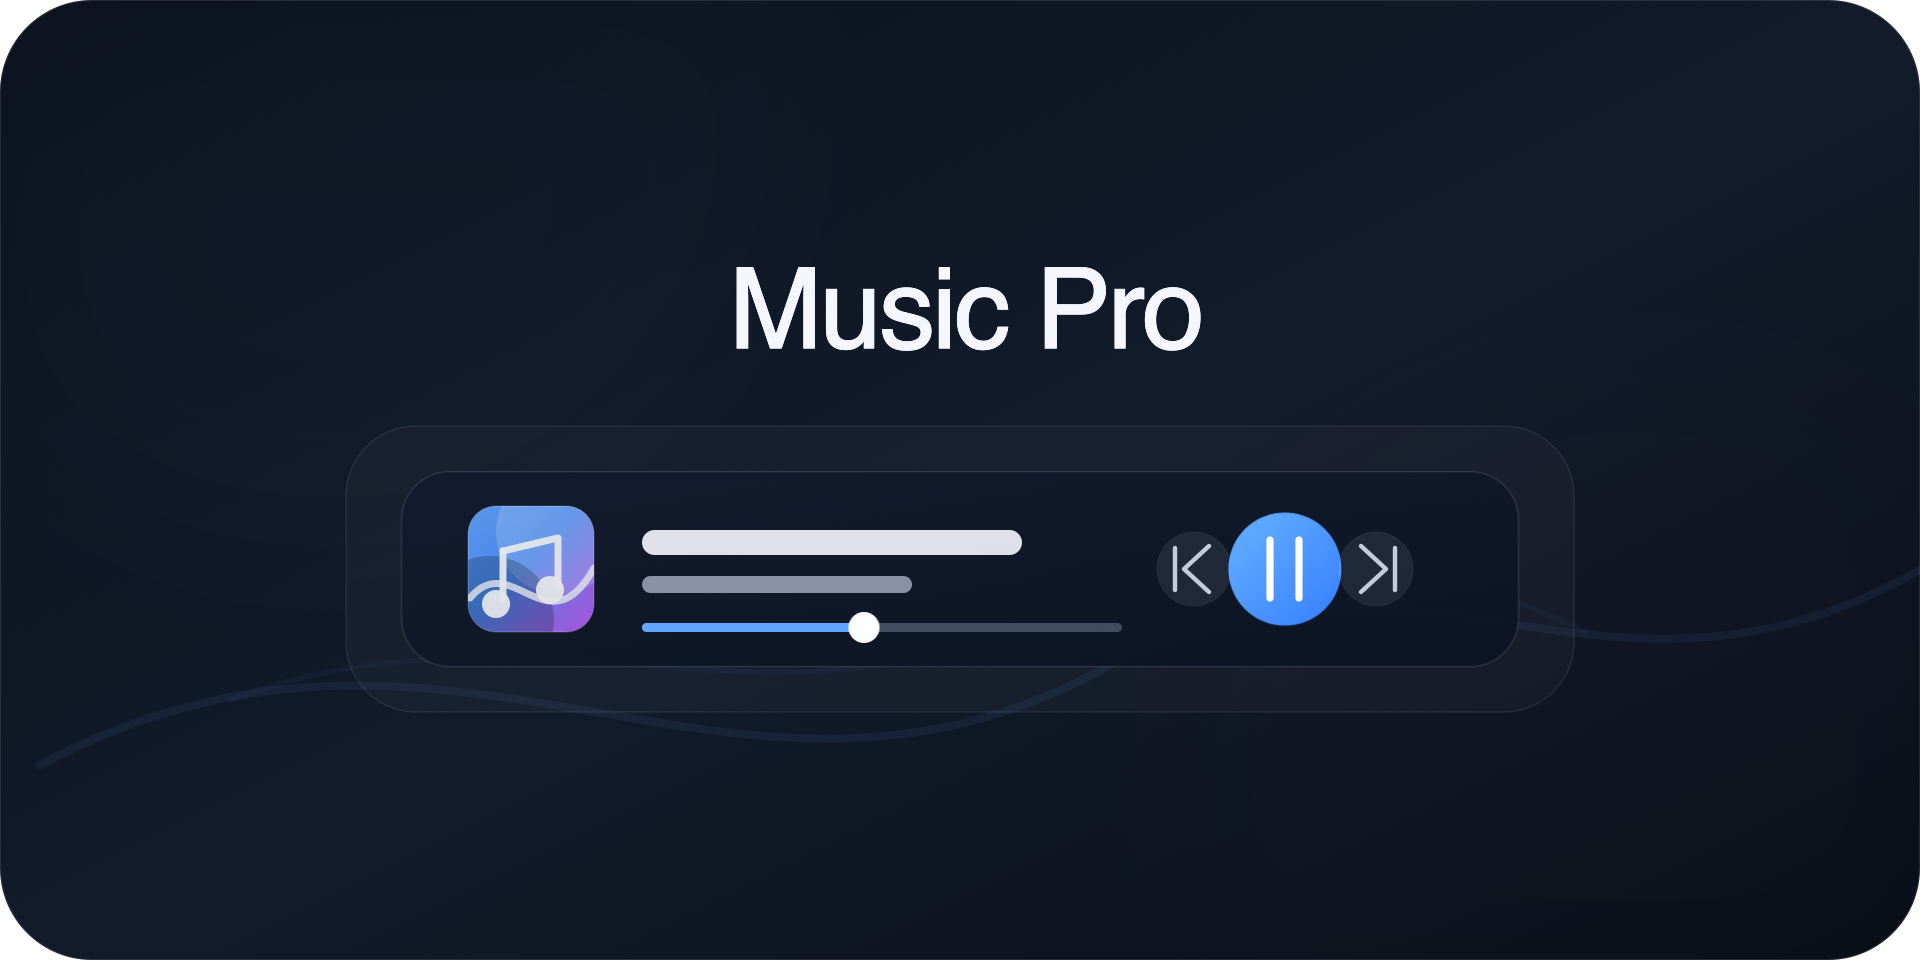
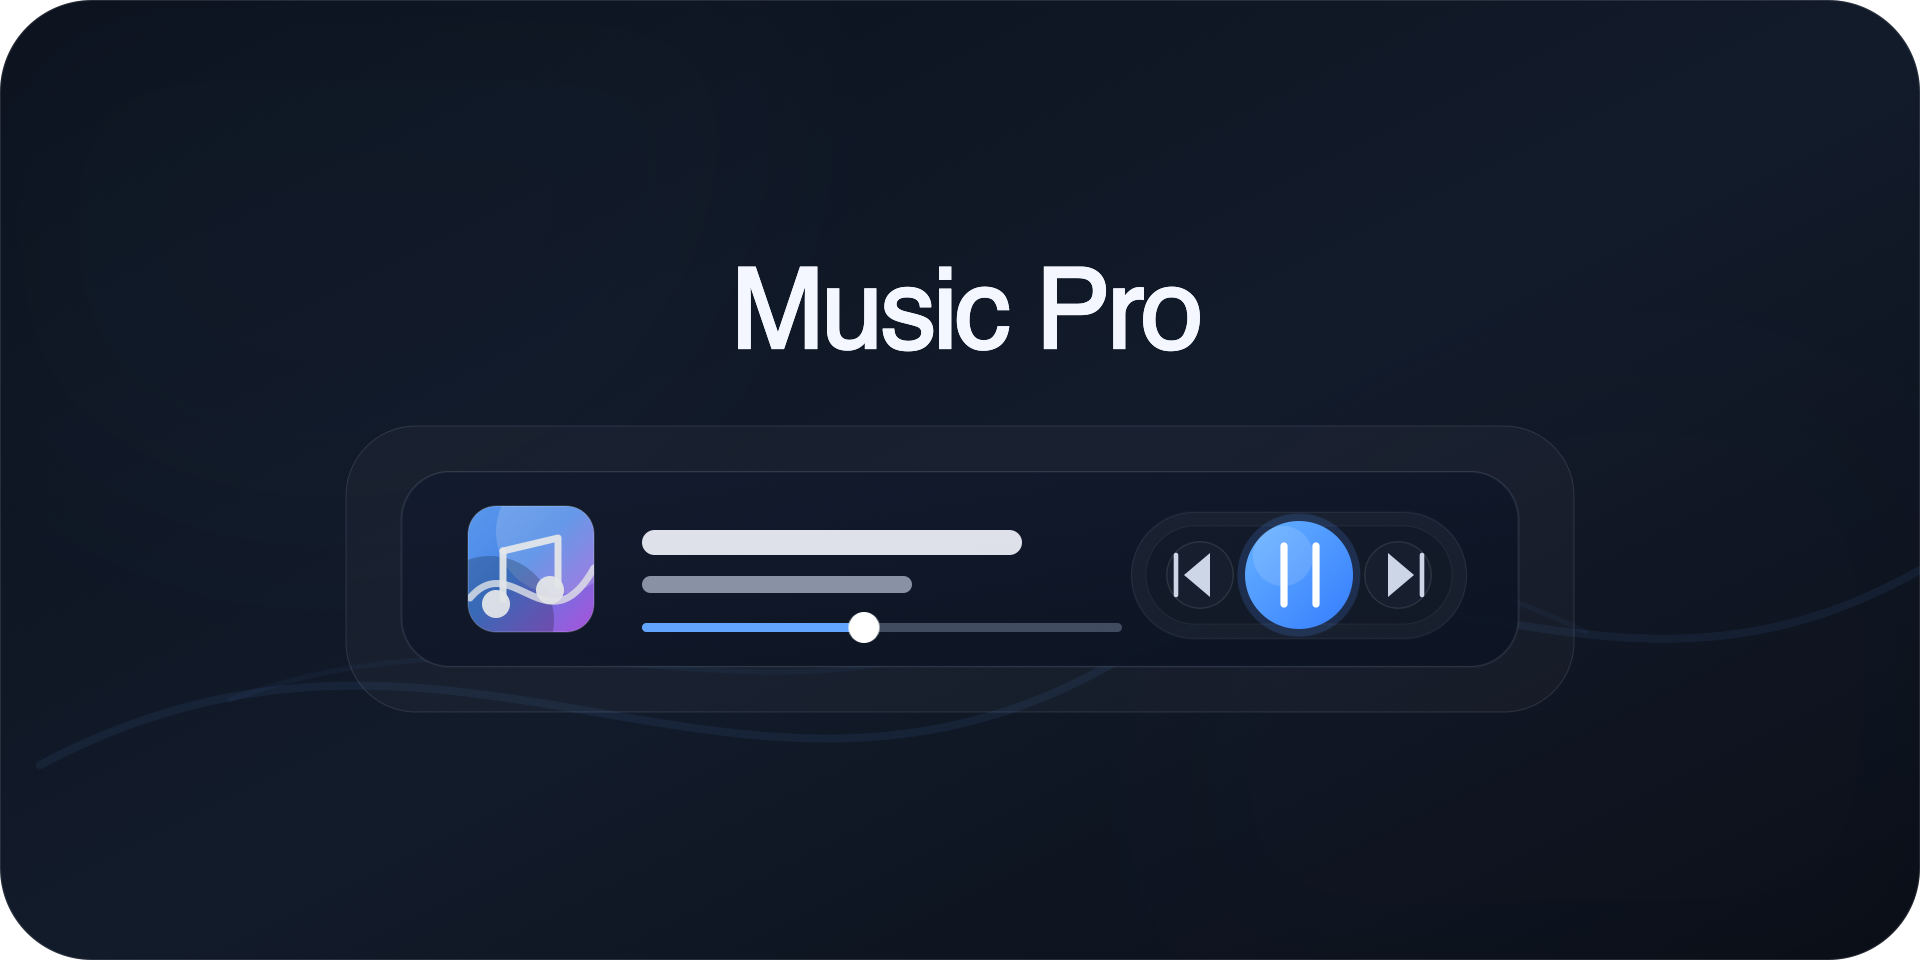
Update

Changed region(s): [[0.5938, 0.5312, 0.75, 0.6875], [0.375, 0.2812, 0.5, 0.375], [0.5938, 0.3125, 0.625, 0.3438]]

diff --git a/src/player/SoundCloudPlayer.ts b/src/player/SoundCloudPlayer.ts
@@ -21,30 +21,193 @@ interface SoundCloudWidget {
   getSounds?(callback: (value: any[]) => void): void;
   getCurrentSound?(callback: (value: any) => void): void;
   getCurrentSoundIndex?(callback: (value: number) => void): void;
+  destroy?(): void;
 }
 
-declare global {
-  interface Window {
-    SC?: {
-      Widget: ((iframe: HTMLIFrameElement | string) => SoundCloudWidget) & {
-        Events: Record<string, string>;
-      };
-    };
-  }
-}
-
-const WIDGET_API_URL = "https://w.soundcloud.com/player/api.js";
+const SOUNDCLOUD_WIDGET_ORIGIN = "https://w.soundcloud.com";
+const SOUNDCLOUD_WIDGET_EVENTS = {
+  LOAD_PROGRESS: "loadProgress",
+  PLAY_PROGRESS: "playProgress",
+  PLAY: "play",
+  PAUSE: "pause",
+  FINISH: "finish",
+  SEEK: "seek",
+  READY: "ready",
+  ERROR: "error"
+} as const;
 const EXCLUDED_PLAYLIST_TRACK_MAX_DURATION_MS = 30_000;
 const PLAYLIST_METADATA_CACHE_MS = 6 * 60 * 60 * 1000;
 const PLAYLIST_METADATA_FAILURE_BACKOFF_MS = 10 * 60 * 1000;
 const POSITION_EMIT_MIN_INTERVAL_MS = 250;
+
+function makeSoundCloudEmbedUrl(url: string, options: Record<string, any> = {}): string {
+  const params = new URLSearchParams();
+  params.set("url", url);
+  for (const [key, value] of Object.entries(options)) {
+    if (key === "callback" || value === undefined || value === null) continue;
+    params.set(key, key === "start_track" ? String(parseInt(String(value), 10) || 0) : value ? "true" : "false");
+  }
+  return `${SOUNDCLOUD_WIDGET_ORIGIN}/player/?${params.toString()}`;
+}
+
+class SoundCloudWidgetBridge implements SoundCloudWidget {
+  private iframe: HTMLIFrameElement;
+  private isReady = false;
+  private playEventFired = false;
+  private eventCallbacks = new Map<string, Set<(...args: any[]) => void>>();
+  private responseCallbacks = new Map<string, Array<(value: any) => void>>();
+  private handleMessage = (event: MessageEvent) => this.onMessage(event);
+
+  constructor(iframe: HTMLIFrameElement) {
+    this.iframe = iframe;
+    window.addEventListener("message", this.handleMessage, false);
+  }
+
+  destroy(): void {
+    window.removeEventListener("message", this.handleMessage, false);
+    this.eventCallbacks.clear();
+    this.responseCallbacks.clear();
+  }
+
+  bind(eventName: string, listener: (...args: any[]) => void): void {
+    const callbacks = this.eventCallbacks.get(eventName) || new Set<(...args: any[]) => void>();
+    callbacks.add(listener);
+    this.eventCallbacks.set(eventName, callbacks);
+    if (eventName === SOUNDCLOUD_WIDGET_EVENTS.READY && this.isReady) {
+      window.setTimeout(() => listener(), 1);
+      return;
+    }
+    if (this.isReady) this.send("addEventListener", eventName);
+  }
+
+  unbind(eventName: string): void {
+    this.eventCallbacks.delete(eventName);
+    if (this.isReady && eventName !== SOUNDCLOUD_WIDGET_EVENTS.READY) {
+      this.send("removeEventListener", eventName);
+    }
+  }
+
+  load(url: string, options: Record<string, any>): void {
+    this.isReady = false;
+    this.playEventFired = false;
+    if (typeof options.callback === "function") {
+      const onReady = () => {
+        this.eventCallbacks.get(SOUNDCLOUD_WIDGET_EVENTS.READY)?.delete(onReady);
+        options.callback();
+      };
+      this.bind(SOUNDCLOUD_WIDGET_EVENTS.READY, onReady);
+    }
+    this.iframe.src = makeSoundCloudEmbedUrl(url, options);
+  }
+
+  play(): void {
+    this.send("play");
+  }
+
+  pause(): void {
+    this.send("pause");
+  }
+
+  toggle(): void {
+    this.send("toggle");
+  }
+
+  seekTo(milliseconds: number): void {
+    this.send("seekTo", milliseconds);
+  }
+
+  setVolume(volume: number): void {
+    this.send("setVolume", volume);
+  }
+
+  next(): void {
+    this.send("next");
+  }
+
+  prev(): void {
+    this.send("prev");
+  }
+
+  skip(soundIndex: number): void {
+    this.send("skip", soundIndex);
+  }
+
+  getDuration(callback: (value: number) => void): void {
+    this.request("getDuration", callback);
+  }
+
+  getPosition(callback: (value: number) => void): void {
+    this.request("getPosition", callback);
+  }
+
+  getSounds(callback: (value: any[]) => void): void {
+    this.request("getSounds", callback);
+  }
+
+  getCurrentSound(callback: (value: any) => void): void {
+    this.request("getCurrentSound", callback);
+  }
+
+  getCurrentSoundIndex(callback: (value: number) => void): void {
+    this.request("getCurrentSoundIndex", callback);
+  }
+
+  private request<T>(method: string, callback: (value: T) => void): void {
+    const callbacks = this.responseCallbacks.get(method) || [];
+    callbacks.push(callback as (value: any) => void);
+    this.responseCallbacks.set(method, callbacks);
+    this.send(method);
+  }
+
+  private send(method: string, value?: unknown): void {
+    const target = this.iframe.contentWindow;
+    if (!target) return;
+    target.postMessage(JSON.stringify({ method, value }), SOUNDCLOUD_WIDGET_ORIGIN);
+  }
+
+  private onMessage(event: MessageEvent): void {
+    if (event.source !== this.iframe.contentWindow) return;
+    if (event.origin && event.origin !== SOUNDCLOUD_WIDGET_ORIGIN) return;
+    let payload: { method?: string; value?: any };
+    try {
+      payload = JSON.parse(String(event.data || "{}"));
+    } catch {
+      return;
+    }
+    const method = String(payload.method || "");
+    if (!method) return;
+    if (method === SOUNDCLOUD_WIDGET_EVENTS.READY) {
+      this.isReady = true;
+      for (const eventName of this.eventCallbacks.keys()) {
+        if (eventName !== SOUNDCLOUD_WIDGET_EVENTS.READY) this.send("addEventListener", eventName);
+      }
+    }
+    if (method === SOUNDCLOUD_WIDGET_EVENTS.PLAY) this.playEventFired = true;
+    if (method === SOUNDCLOUD_WIDGET_EVENTS.PLAY_PROGRESS && !this.playEventFired) {
+      this.playEventFired = true;
+      this.emit(SOUNDCLOUD_WIDGET_EVENTS.PLAY, payload.value);
+    }
+    this.emit(method, payload.value);
+  }
+
+  private emit(method: string, value: any): void {
+    const args = value === undefined ? [] : [value];
+    const responseCallbacks = this.responseCallbacks.get(method);
+    if (responseCallbacks?.length) {
+      this.responseCallbacks.delete(method);
+      for (const callback of responseCallbacks) callback(value);
+    }
+    for (const callback of this.eventCallbacks.get(method) || []) {
+      callback(...args);
+    }
+  }
+}
 
 export class SoundCloudPlayer {
   private store: PlayerStore;
   private hostEl: HTMLElement | null = null;
   private iframeEl: HTMLIFrameElement | null = null;
   private widget: SoundCloudWidget | null = null;
-  private scriptPromise: Promise<void> | null = null;
   private currentUrl: string | null = null;
   private progressTimer: number | null = null;
   private loadTimeout: number | null = null;
@@ -74,6 +237,7 @@ export class SoundCloudPlayer {
     this.hostEl?.remove();
     this.hostEl = null;
     this.iframeEl = null;
+    this.widget?.destroy?.();
     this.widget = null;
     this.loadToken += 1;
     this.playlistHydrationToken += 1;
@@ -109,12 +273,11 @@ export class SoundCloudPlayer {
     });
     try {
       assertEmbeddableSoundCloudUrl(item.url);
-      await this.ensureScript();
       if (!this.isCurrentLoad(loadToken, item)) return;
       this.ensureIframe(item.url);
-      if (!this.iframeEl || !window.SC?.Widget) throw new Error("SoundCloud widget is not available.");
+      if (!this.iframeEl) throw new Error("SoundCloud widget is not available.");
       if (!this.widget) {
-        this.widget = window.SC.Widget(this.iframeEl);
+        this.widget = new SoundCloudWidgetBridge(this.iframeEl);
         this.bindWidgetEvents();
       }
       this.lastKnownPositionMs = resumeTarget?.positionMs ?? 0;
@@ -293,30 +456,9 @@ export class SoundCloudPlayer {
     return `https://w.soundcloud.com/player/?${params.toString()}`;
   }
 
-  private ensureScript(): Promise<void> {
-    if (window.SC?.Widget) return Promise.resolve();
-    if (this.scriptPromise) return this.scriptPromise;
-    this.scriptPromise = new Promise((resolve, reject) => {
-      const existing = document.querySelector<HTMLScriptElement>(`script[src="${WIDGET_API_URL}"]`);
-      if (existing) {
-        existing.addEventListener("load", () => resolve(), { once: true });
-        existing.addEventListener("error", () => reject(new Error("Unable to load SoundCloud Widget API.")), { once: true });
-        if (window.SC?.Widget) resolve();
-        return;
-      }
-      const script = document.createElement("script");
-      script.src = WIDGET_API_URL;
-      script.async = true;
-      script.addEventListener("load", () => resolve(), { once: true });
-      script.addEventListener("error", () => reject(new Error("Unable to load SoundCloud Widget API.")), { once: true });
-      document.head.appendChild(script);
-    });
-    return this.scriptPromise;
-  }
-
   private bindWidgetEvents(): void {
-    const events = window.SC?.Widget.Events;
-    if (!events || !this.widget) return;
+    const events = SOUNDCLOUD_WIDGET_EVENTS;
+    if (!this.widget) return;
     this.widget.bind(events.READY, () => {
       if (this.hasPendingWidgetLoad()) return;
       this.clearLoadWatchdog();

diff --git a/src/ui/SettingsTab.ts b/src/ui/SettingsTab.ts
@@ -30,7 +30,7 @@ export class MusicProSettingsTab extends PluginSettingTab {
 
     const hero = containerEl.createDiv({ cls: "music-pro-settings-hero" });
     hero.createEl("h2", { text: "Music Pro" });
-    hero.createEl("p", { text: "A plug-and-play music app for deep work inside Obsidian." });
+    hero.createEl("p", { text: "A plug-and-play music app for deep work." });
 
     const appearance = this.createSettingsSection(
       containerEl,

diff --git a/README.md b/README.md
@@ -1,6 +1,6 @@
 # Music Pro
 
-A plug-and-play music app for deep work inside Obsidian.
+A plug-and-play music app for deep work.
 
 ![Music Pro preview](./assets/readme-hero.png)
 